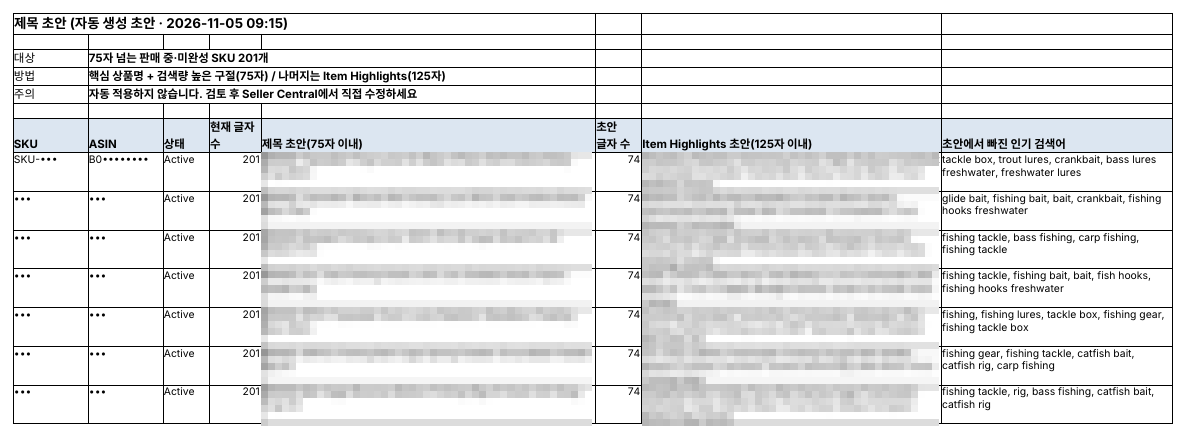
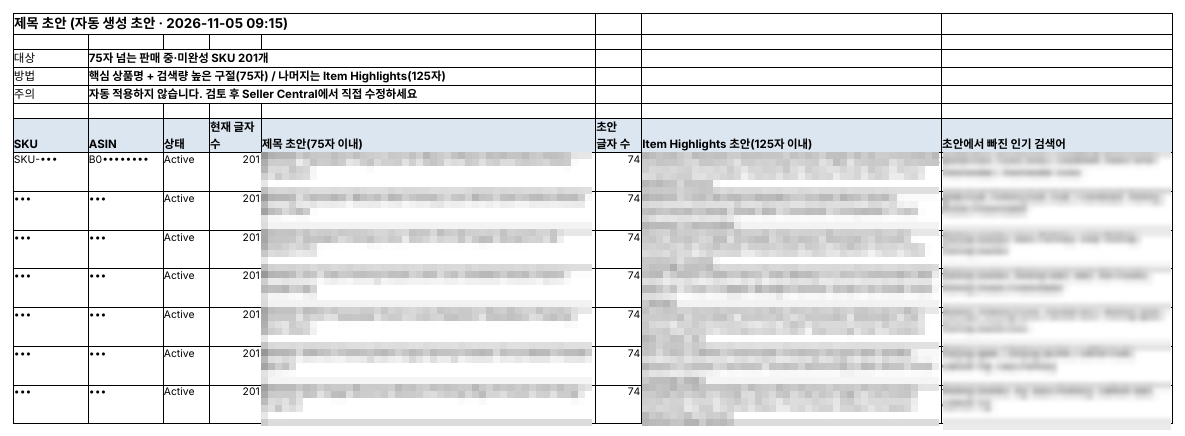
Blog polish: sitemap lastmod, shorter titles, separate FBA posts, mask keywords
- Sitemap entries for posts get <lastmod> from frontmatter updated/published
- Shorten long English titles so search results don't cut them off
- Give the FBA reimbursement policy post and the step-by-step lost
  inventory guide distinct titles and cross-link them near the top
- Mask search keywords in the ads and listing screenshots

Claude-Session: https://claude.ai/code/session_01WzhbJFrU4VsYVtkRU2SB2q

Changed region(s): [[0.7806, 0.328, 0.9992, 0.9541]]

diff --git a/content/en/posts/amazon-fba-lost-inventory-claim/index.md b/content/en/posts/amazon-fba-lost-inventory-claim/index.md
@@ -1,5 +1,5 @@
 ---
-title: 'Amazon FBA Missing Inventory: Find Lost Units, File a Reimbursement Claim, and Confirm You Got Paid'
+title: 'Amazon FBA Lost Inventory: Find, Claim and Confirm Payouts'
 published: 2026-11-09
 description: 'A step-by-step walkthrough with real Seller Central screens: how to spot FBA lost inventory, check whether Amazon already reimbursed or found it, file a claim for what is left, and verify the payout.'
 tags: [Amazon, FBA, Lost Inventory, Reimbursements, Inventory Ledger]
@@ -16,7 +16,7 @@ Amazon reimburses most of this automatically, but some cases slip through, and o
 3. File a claim only for what is left
 4. Confirm the payout and any later reversal
 
-> Screens are from US Seller Central (English). SKUs, ASINs, FNSKUs, order IDs, transaction IDs and product names are masked.
+> Screens are from US Seller Central (English). SKUs, ASINs, FNSKUs, order IDs, transaction IDs and product names are masked. For the policy rules on their own (eligibility, windows, payout basis), see [FBA reimbursement policy: claim windows and payout rules](../amazon-seller-12-fba-reimbursement/).
 
 ## First: the deadline depends on where the units went missing
 
@@ -193,7 +193,7 @@ Interested in SellerMorning? Email [toolbox@toolboxnotes.com](mailto:toolbox@too
 
 **Related reading**
 
-- [How to Claim FBA Reimbursements for Lost or Damaged Inventory](../amazon-seller-12-fba-reimbursement/) (policy summary)
+- [FBA reimbursement policy: claim windows and payout rules](../amazon-seller-12-fba-reimbursement/) (policy summary)
 - [FBA inventory without stock-outs or overstock](../amazon-seller-7-fba-inventory/)
 - [Finding problems in orders and returns](../amazon-seller-8-orders-returns/)
 - [Check profit before you change a price](../amazon-seller-13-fees-profit/)

diff --git a/content/en/posts/amazon-seller-12-fba-reimbursement/index.md b/content/en/posts/amazon-seller-12-fba-reimbursement/index.md
@@ -1,5 +1,5 @@
 ---
-title: 'How to Claim FBA Reimbursements for Lost or Damaged Inventory'
+title: 'FBA Reimbursement Policy: Claim Windows and Payout Rules'
 published: 2026-10-30
 description: 'Claim windows and payout rules for lost, damaged and refunded-but-not-returned FBA inventory, and how to find and file missing claims.'
 tags: [Amazon, FBA, Reimbursements, Inventory Ledger]
@@ -10,6 +10,8 @@ draft: false
 ## Amazon loses inventory too
 
 In FBA warehouses, stock gets lost or damaged, and sometimes a customer is refunded but never returns the item. Amazon reimburses most of this automatically, but some cases slip through, and then the seller has to file a claim within the deadline.
+
+> This post covers the **rules**: what is eligible, the claim windows and how the payout is calculated. To actually find missing units and file a claim step by step with real Seller Central screens, see [Amazon FBA lost inventory: find, claim and confirm payouts](../amazon-fba-lost-inventory-claim/).
 
 ### The updated reimbursement policy
 
@@ -45,8 +47,6 @@ The hard part: a ‘lost’ event is often offset by a later ‘found’, or rei
 ![Finance and reimbursements summary](./reimbursement-report.png)
 
 *The finance and reimbursements Summary: claimable lost or damaged units and refunds without returns, with deadlines and how to file (SKUs, amounts and Reference IDs masked; the program's reports are in Korean).*
-
-> For a hands-on walkthrough with real Seller Central screens — from spotting lost units to filing and confirming the payout — see [FBA missing inventory: a step-by-step claim guide](../amazon-fba-lost-inventory-claim/).
 
 ---
 

diff --git a/content/en/posts/offline-pdf-toolbox/index.md b/content/en/posts/offline-pdf-toolbox/index.md
@@ -1,5 +1,5 @@
 ---
-title: 'PDF Toolbox: Free Offline PDF Converter for Windows and Mac (Merge, PDF to Word, OCR, No Uploads)'
+title: 'PDF Toolbox: Free Offline PDF Converter for Windows and Mac'
 published: 2026-11-10
 description: 'I built PDF Toolbox because I did not want to upload contracts and quotes to random websites. It merges, splits and compresses PDFs, converts PDF to Word, Excel and PowerPoint, runs OCR on scans, signs and encrypts files, 23 tools in all, entirely on your own computer with nothing to install. Free to download from GitHub.'
 tags: [PDF, PDF Converter, Offline, OCR, PDF to Word, Merge PDF, PDF Toolbox]

diff --git a/content/en/posts/amazon-seller-2-real-challenge/index.md b/content/en/posts/amazon-seller-2-real-challenge/index.md
@@ -1,5 +1,5 @@
 ---
-title: 'Why Running an Amazon Store Gets Hard: 6 Things to Check Daily in Seller Central'
+title: 'Why Running an Amazon Store Gets Hard: 6 Daily Checks'
 published: 2026-10-10
 description: 'As your catalog grows, managing it becomes the real job. The six things to check every day, and why Seller Central makes it hard, with real screens.'
 tags: [Amazon, Seller Central, Operations]

diff --git a/content/en/posts/amazon-seller-5-listings/index.md b/content/en/posts/amazon-seller-5-listings/index.md
@@ -1,5 +1,5 @@
 ---
-title: 'Amazon''s 75-Character Title Rule: How to Audit and Safely Bulk-Edit Listings'
+title: 'Amazon''s 75-Character Title Rule: Audit and Fix Listings'
 published: 2026-10-16
 description: 'Check every listing against rules like the 75-character title limit, then apply only the fixes you approve, with an undo for each.'
 tags: [Amazon, SellerMorning, Listings, SP-API]

diff --git a/content/en/posts/amazon-seller-9-business-reports/index.md b/content/en/posts/amazon-seller-9-business-reports/index.md
@@ -1,5 +1,5 @@
 ---
-title: 'How to Read Amazon Business Reports: Sessions, Conversion and Buy Box'
+title: 'How to Read Amazon Business Reports: Sessions and Conversion'
 published: 2026-10-24
 description: 'Split a sales drop into sessions and conversion with Business Reports, and what to do in each of four cases, including Buy Box.'
 tags: [Amazon, Business Reports, Conversion, Buy Box]

diff --git a/content/en/posts/amazon-seller-8-orders-returns/index.md b/content/en/posts/amazon-seller-8-orders-returns/index.md
@@ -1,5 +1,5 @@
 ---
-title: 'How to Analyze Amazon Orders and Returns: Find the SKUs Losing Sales'
+title: 'Amazon Orders and Returns: Find the SKUs Losing Sales'
 published: 2026-10-22
 description: 'How to find SKUs with falling sales or high return rates in your order and return reports, and what to fix for each return reason.'
 tags: [Amazon, Order Reports, Returns, Seller Central]

diff --git a/content/en/posts/amazon-seller-15-safe-automation/index.md b/content/en/posts/amazon-seller-15-safe-automation/index.md
@@ -1,5 +1,5 @@
 ---
-title: 'Safe Amazon Automation with SP-API: Rules That Protect Your Account'
+title: 'Amazon SP-API Automation Without Risking Your Account'
 published: 2026-11-05
 description: 'Automate safely with the official SP-API and Ads API, encrypted storage on your own PC, and edits applied only after you approve them.'
 tags: [Amazon, SP-API, Automation, SellerMorning]

diff --git a/content/en/posts/pdf-to-excel-offline/index.md b/content/en/posts/pdf-to-excel-offline/index.md
@@ -1,5 +1,5 @@
 ---
-title: "How to Convert PDF to Excel Offline With Numbers You Can Calculate"
+title: 'PDF to Excel Offline: Get Numbers You Can Calculate'
 description: "Move tables from quotes, statements and price lists in a PDF into Excel for free. Numbers with commas become real values, and scanned tables are handled with OCR. No upload."
 published: 2026-11-23
 draft: false

diff --git a/content/en/posts/amazon-seller-10-brand-analytics/index.md b/content/en/posts/amazon-seller-10-brand-analytics/index.md
@@ -1,5 +1,5 @@
 ---
-title: 'How to Use Amazon Brand Analytics to Find Where Shoppers Drop Off'
+title: 'Amazon Brand Analytics: Find Where Shoppers Drop Off'
 published: 2026-10-26
 description: 'Use the Brand Analytics search funnel (impressions, clicks, cart adds, purchases) to find where shoppers drop off and what to check.'
 tags: [Amazon, Brand Analytics, Search Funnel, SQP]
